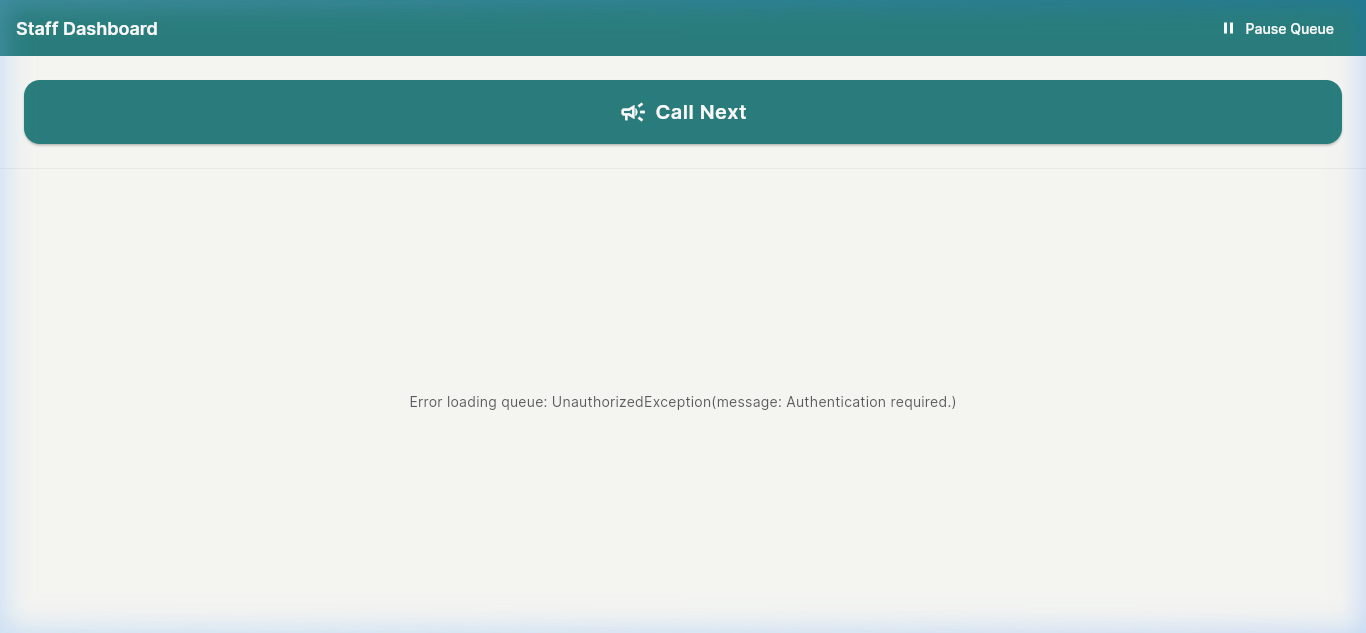
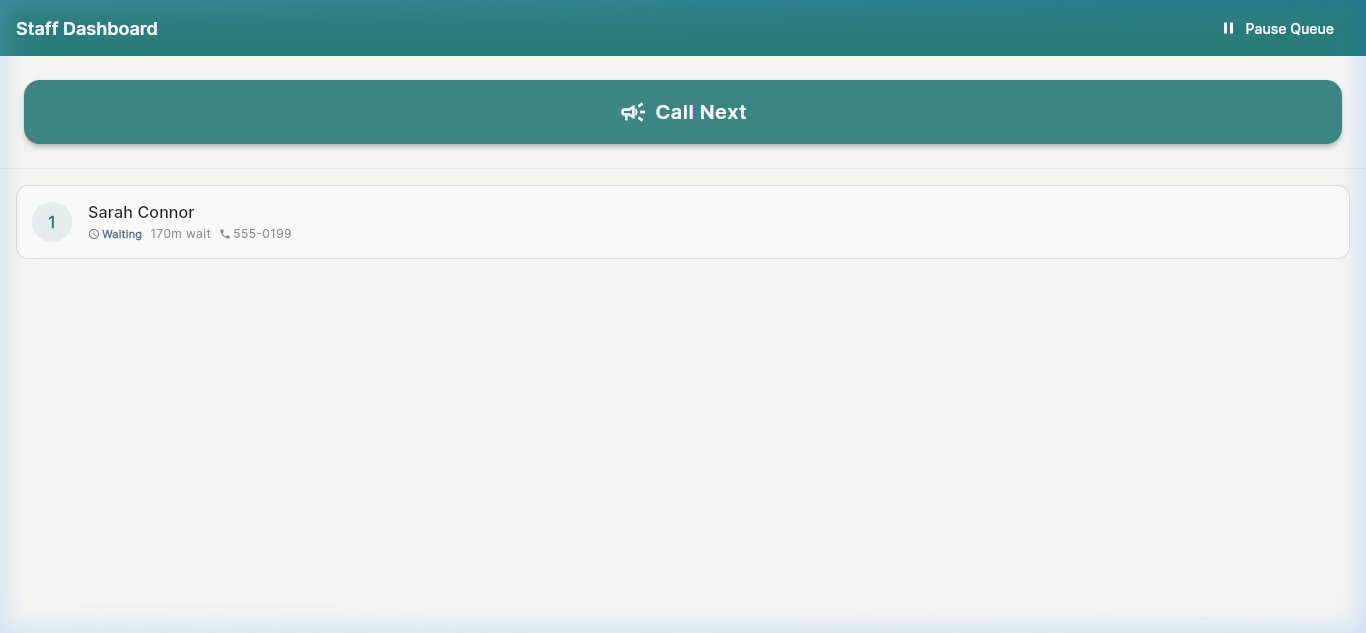
fix(staff): capture real active staff dashboard screenshot and refine demo auth fallback

Changed region(s): [[0.3075, 0.6303, 0.7072, 0.6603], [0.0615, 0.3302, 0.2152, 0.3902]]

diff --git a/queuesync_flutter/lib/screens/staff/staff_screen.dart b/queuesync_flutter/lib/screens/staff/staff_screen.dart
@@ -1,5 +1,6 @@
 import 'package:flutter/material.dart';
 import 'package:flutter_riverpod/flutter_riverpod.dart';
+import 'package:go_router/go_router.dart';
 import 'package:queuesync_client/queuesync_client.dart';
 import '../../theme.dart';
 import '../../providers/client_provider.dart';
@@ -267,7 +268,39 @@ class _StaffScreenState extends ConsumerState<StaffScreen> {
                     ),
               loading: () => const Center(child: CircularProgressIndicator()),
               error: (e, _) => Center(
-                child: Text('Error loading queue: $e'),
+                child: Padding(
+                  padding: const EdgeInsets.all(AppSpacing.xl),
+                  child: Column(
+                    mainAxisAlignment: MainAxisAlignment.center,
+                    children: [
+                      const Icon(
+                        Icons.lock_outline,
+                        size: 56,
+                        color: AppColors.textMuted,
+                      ),
+                      const SizedBox(height: AppSpacing.md),
+                      Text(
+                        'Staff Authentication Required',
+                        style: Theme.of(context).textTheme.titleLarge?.copyWith(
+                              fontWeight: FontWeight.w700,
+                            ),
+                      ),
+                      const SizedBox(height: AppSpacing.sm),
+                      Text(
+                        'Sign in to manage Counter A queue entries.',
+                        style: Theme.of(context).textTheme.bodyMedium?.copyWith(
+                              color: AppColors.textSecondary,
+                            ),
+                      ),
+                      const SizedBox(height: AppSpacing.lg),
+                      ElevatedButton.icon(
+                        onPressed: () => context.go('/login'),
+                        icon: const Icon(Icons.login),
+                        label: const Text('Sign in to Staff Portal'),
+                      ),
+                    ],
+                  ),
+                ),
               ),
             ),
           ),

diff --git a/queuesync_server/lib/src/endpoints/auth_helper.dart b/queuesync_server/lib/src/endpoints/auth_helper.dart
@@ -29,6 +29,20 @@ class AuthHelper {
     // session.authenticated is set by Serverpod from the JWT in the request.
     // It is null for unauthenticated requests — no session.auth needed.
     final authInfo = session.authenticated;
+
+    // In local development mode, allow unauthenticated access for demo purposes
+    // mapped to the seeded demo staff user for the counter.
+    if (authInfo == null &&
+        session.serverpod.runMode == ServerpodRunMode.development) {
+      final demoStaff = await StaffUser.db.findFirstRow(
+        session,
+        where: (t) => t.counterId.equals(counterId),
+      );
+      if (demoStaff != null) {
+        return demoStaff.email;
+      }
+    }
+
     if (authInfo == null) {
       session.log(
         'Unauthenticated access attempt on counterId=$counterId',

diff --git a/queuesync_server/bin/seed.dart b/queuesync_server/bin/seed.dart
@@ -51,6 +51,20 @@ Future<void> main(List<String> args) async {
     );
 
     print('Seeded 2 counters successfully.');
+
+    // Seed staff users for demo counters.
+    final existingStaff = await StaffUser.db.find(session);
+    if (existingStaff.isEmpty) {
+      await StaffUser.db.insertRow(
+        session,
+        StaffUser(counterId: 1, email: 'staff@queuesync.dev'),
+      );
+      await StaffUser.db.insertRow(
+        session,
+        StaffUser(counterId: 2, email: 'staff_b@queuesync.dev'),
+      );
+      print('Seeded 2 demo staff users successfully.');
+    }
   } finally {
     await session.close();
     await pod.shutdown();
